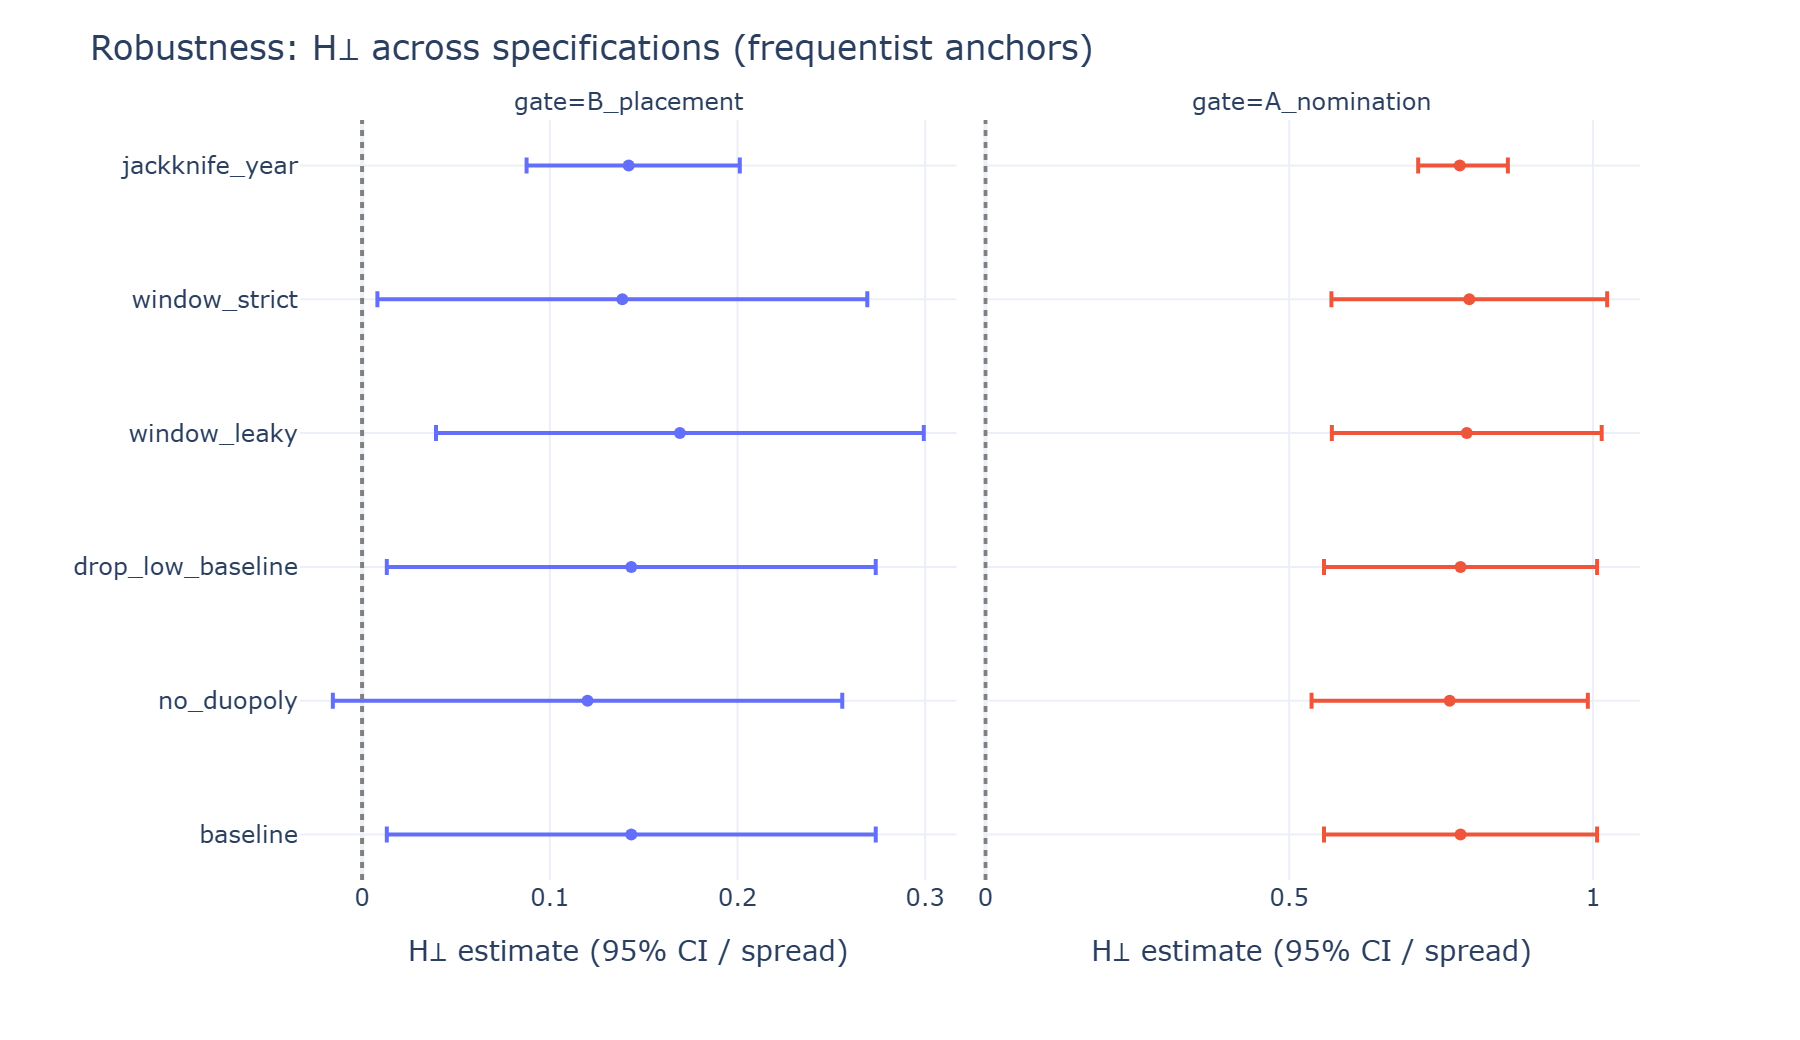
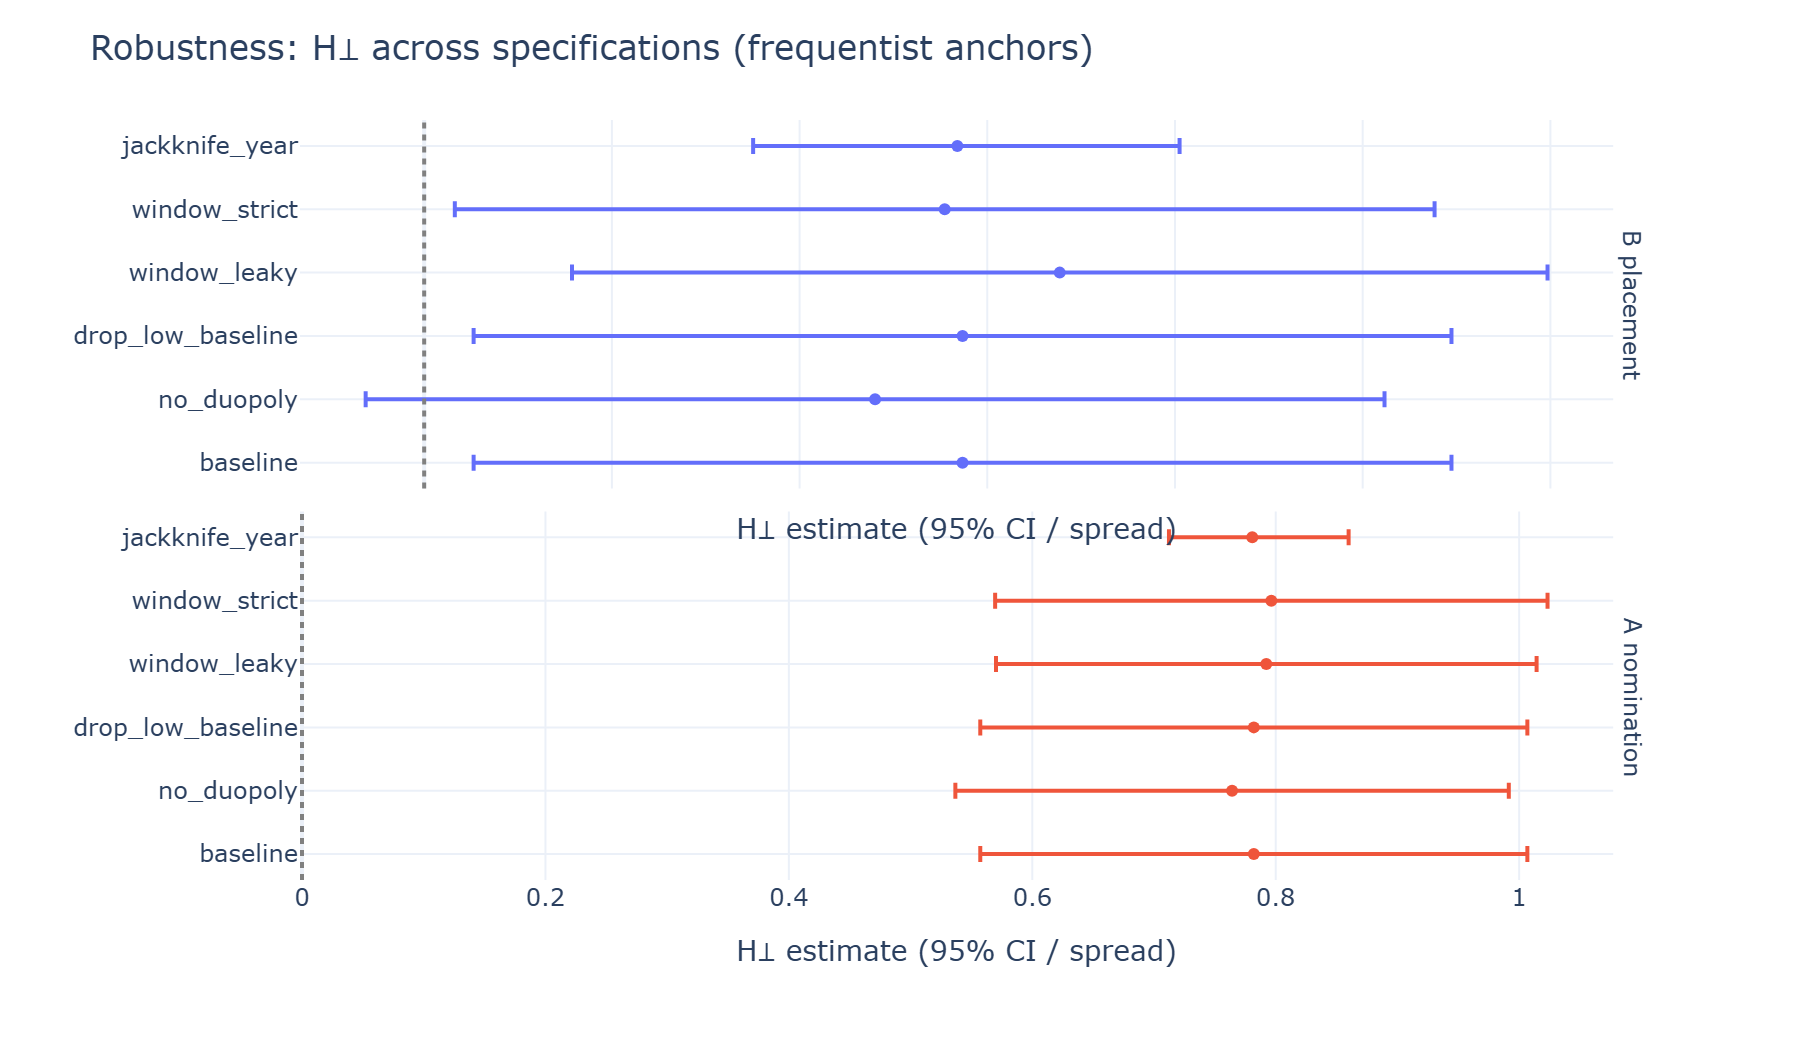
Mobile polish for the site and report
Site (audited at iPhone 390px, no horizontal overflow):
- Fix scrolly sticky-graphic / step-box overlap (shorter graphic, opaque boxes).
- Per-year scoreboard stacks vertically on phones (was 3 cramped columns).
- Bump in-chart fonts so labels stay legible once SVGs scale down.
- Scatter: tap-to-reveal tooltips + larger dots (no hover on touch).
- Relax full-screen panel heights and disable scroll-snap on mobile.

Report:
- Robustness caterpillar facets stacked vertically (readable on phones).
- Disable the plotly modebar; suppress plotly's MathJax "MathZoom.js" banner.

diff --git a/site/app.js b/site/app.js
@@ -186,20 +186,42 @@
     const data = D.per_year;
     if (!data || !data.length) return;
     const yr = data[Math.max(0, Math.min(data.length - 1, perYearState.step))];
-    const { W, H } = PY;
     const cols = [
       { key: "best_season", role: "BEST SEASON", sub: "top on-pitch merit", col: C.cool, stat: "merit_z", pre: "merit " },
       { key: "winner", role: "THE WINNER", sub: "took the trophy", col: C.accent, stat: null, pre: "" },
       { key: "most_hyped", role: "MOST OVER-HYPED", sub: "top Hype Score (buzz beyond merit)", col: C.hot, stat: "h_perp", pre: "Hype " },
     ];
-    const cxs = cols.map((_, i) => W * (i * 2 + 1) / 6);
 
     if (!peryear) {
+      // Phone: stack the three faces vertically (3 columns squeeze illegibly at ~340px). Desktop:
+      // keep the side-by-side row. Font sizes use .style so the .lab class can't shrink them.
+      const vert = window.innerWidth < 760;
+      const W = vert ? 430 : PY.W, H = vert ? 730 : PY.H;
       const s = svg("#peryear-chart", W, H);
-      const title = s.append("text").attr("x", W / 2).attr("y", 26).attr("text-anchor", "middle")
-        .attr("class", "lab title").attr("fill", C.ink).attr("font-size", 22);
+      const title = s.append("text").attr("x", W / 2).attr("y", vert ? 30 : 26).attr("text-anchor", "middle")
+        .attr("class", "lab title").attr("fill", C.ink).style("font-size", vert ? "26px" : "22px");
       const groups = cols.map((c, i) => {
-        const g = s.append("g").attr("transform", `translate(${cxs[i]},0)`);
+        if (vert) {
+          const top = 60 + i * 220;
+          const g = s.append("g").attr("transform", `translate(${W / 2},${top})`);
+          g.append("text").attr("y", 22).attr("text-anchor", "middle").attr("class", "lab")
+            .style("fill", c.col).attr("letter-spacing", "1.5px").style("font-size", "18px").text(c.role);
+          g.append("text").attr("y", 46).attr("text-anchor", "middle").attr("class", "lab sm")
+            .style("fill", C.faint).style("font-size", "15px").text(c.sub);
+          return {
+            card: g.append("rect").attr("x", -185).attr("y", 60).attr("width", 370).attr("height", 132)
+              .attr("rx", 12).attr("fill", "rgba(255,255,255,0.02)").attr("stroke", c.col)
+              .attr("stroke-opacity", 0.4),
+            name: g.append("text").attr("y", 104).attr("text-anchor", "middle").attr("class", "lab")
+              .attr("fill", C.ink).style("font-size", "27px"),
+            finish: g.append("text").attr("y", 138).attr("text-anchor", "middle").attr("class", "lab")
+              .attr("fill", C.muted).style("font-size", "20px"),
+            stat: g.append("text").attr("y", 172).attr("text-anchor", "middle").attr("class", "lab")
+              .style("fill", c.col).style("font-size", "21px"),
+          };
+        }
+        const cx = W * (i * 2 + 1) / 6;
+        const g = s.append("g").attr("transform", `translate(${cx},0)`);
         g.append("text").attr("y", 92).attr("text-anchor", "middle").attr("class", "lab")
           .style("fill", c.col).attr("letter-spacing", "1.5px").attr("font-size", 12).text(c.role);
         g.append("text").attr("y", 110).attr("text-anchor", "middle").attr("class", "lab sm")
@@ -217,7 +239,7 @@
         };
       });
       const verdict = s.append("text").attr("x", W / 2).attr("y", H - 14).attr("text-anchor", "middle")
-        .attr("class", "lab sm").attr("fill", C.muted);
+        .attr("class", "lab sm").attr("fill", C.muted).style("font-size", vert ? "16px" : null);
       peryear = { s, title, groups, verdict };
     }
 
@@ -256,13 +278,20 @@
     s.append("text").attr("transform", `translate(14,${H / 2}) rotate(-90)`)
       .attr("text-anchor", "middle").attr("class", "lab sm").text("attention (log) →");
 
+    const ptTip = (d, e) => showTip(
+      `<b>${d.player}</b> · ${d.year}<br>Hype Score ${fmtS(d.h_perp)} · finished #${d.rank}`, e);
     s.selectAll("circle").data(pts).join("circle")
       .attr("cx", d => x(d.merit)).attr("cy", d => y(d.attention)).attr("r", 0)
       .attr("fill", d => colorH(d.h_perp)).attr("stroke", "#0c0c10").attr("stroke-width", 0.5)
-      .on("mousemove", (e, d) => showTip(
-        `<b>${d.player}</b> · ${d.year}<br>Hype Score ${fmtS(d.h_perp)} · finished #${d.rank}`, e))
+      .on("mousemove", (e, d) => ptTip(d, e))
       .on("mouseleave", hideTip)
+      // touch: tap a dot to reveal its name (no hover on phones); tap elsewhere dismisses.
+      .on("touchstart", (e, d) => { e.stopPropagation(); ptTip(d, e.touches[0]); }, { passive: true })
       .transition().duration(DUR).delay((d, i) => i * 4).attr("r", 5);
+    if (!drawScatter._tapHide) {
+      document.addEventListener("touchstart", hideTip, { passive: true });
+      drawScatter._tapHide = true;
+    }
 
     [["Messi", 2023], ["Lewandowski", 2019]].forEach(([nm, yr]) => {
       const p = pts.find(d => d.year === yr && d.player.includes(nm));

diff --git a/site/styles.css b/site/styles.css
@@ -168,10 +168,29 @@ footer .wrap { max-width: var(--maxw); }
 footer a { color: var(--ink); }
 
 @media (max-width: 760px) {
-  .scrolly { grid-template-columns: 1fr; }
-  .scrolly-graphic { position: sticky; height: 56vh; }
-  .scrolly-steps { padding: 8vh 0; }
-  .step { min-height: 60vh; }
+  /* S-5: don't force every panel to a full screen — let text sections hug their content
+     (the hero keeps its full-screen treatment). */
+  section[data-panel], .rpanel, footer[data-panel], .section-head[data-panel] { min-height: auto; }
+  section[data-panel], .rpanel { padding: 8vh 0; }
+  .section-head[data-panel] { padding-top: 6vh; }
+  /* S-6: native scrolling feels better than snap-points on a phone */
+  html { scroll-snap-type: none; }
+
+  /* S-1: shorter sticky graphic + OPAQUE step boxes so a step never collides with the chart */
+  .scrolly { grid-template-columns: 1fr; gap: 0; }
+  .scrolly-graphic { position: sticky; top: 0; height: 50vh; z-index: 0; }
+  .scrolly-graphic .card { width: 100%; }
+  .scrolly-steps { padding: 6vh 0 10vh; position: relative; z-index: 1; }
+  .step { min-height: 82vh; }
+  .step .box { background: var(--panel); opacity: 0.55; box-shadow: 0 8px 30px rgba(0, 0, 0, 0.5); }
+  .step.is-active .box { opacity: 1; }
+
+  /* S-2: enlarge in-chart text so it stays legible once the SVG scales down to phone width.
+     Scoped by chart id (beats the .axis/.lab class rules); per-year is redrawn vertically in JS. */
+  #leaderboard-chart text, #gates-chart text, #scatter-chart text,
+  #robust-chart text, #spike-chart text, #defame-chart text { font-size: 22px; }
+  /* S-4: larger scatter dots = tappable touch targets (and more visible once scaled down) */
+  #scatter-chart circle { r: 8; }
 }
 @media (prefers-reduced-motion: reduce) {
   * { animation: none !important; transition: none !important; }

diff --git a/src/bdor/report.py b/src/bdor/report.py
@@ -182,15 +182,18 @@ def fig_robustness(panel: pd.DataFrame | None = None):
     p = p[p["spec"].isin(_CATERPILLAR_SPECS)]
     p["err_hi"] = p["ci_high"] - p["estimate"]
     p["err_lo"] = p["estimate"] - p["ci_low"]
+    # Facets STACKED (facet_row), not side-by-side: each gate gets the full width — readable on a
+    # phone and still clean on desktop. Clean up the "gate=…" facet labels.
     fig = px.scatter(
-        p, x="estimate", y="spec", facet_col="gate", error_x="err_hi", error_x_minus="err_lo",
+        p, x="estimate", y="spec", facet_row="gate", error_x="err_hi", error_x_minus="err_lo",
         color="gate", template=_TEMPLATE,
         title="Robustness: H⊥ across specifications (frequentist anchors)",
     )
     fig.add_vline(x=0, line_dash="dot", line_color="grey")
+    fig.for_each_annotation(lambda a: a.update(text=a.text.split("=")[-1].replace("_", " ")))
     fig.update_xaxes(matches=None, title="H⊥ estimate (95% CI / spread)")
     fig.update_yaxes(title="")
-    fig.update_layout(showlegend=False, height=380, margin={"t": 60})
+    fig.update_layout(showlegend=False, height=560, margin={"t": 60})
     return fig
 
 